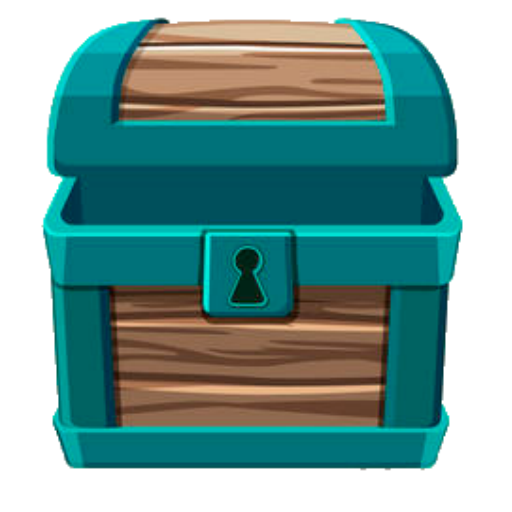
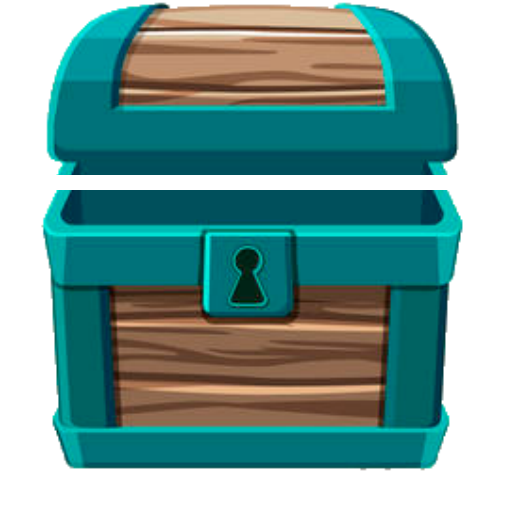
chests now works

Changed region(s): [[0.0625, 0.0, 0.9062, 0.375]]

diff --git a/src/org/supertextbattleroyale/players/Player.java b/src/org/supertextbattleroyale/players/Player.java
@@ -3,18 +3,18 @@ package org.supertextbattleroyale.players;
 import com.google.gson.Gson;
 import com.google.gson.JsonElement;
 import com.google.gson.JsonObject;
-import org.javatuples.Pair;
 import org.javatuples.Triplet;
 import org.supertextbattleroyale.exceptions.JsonLoadFailException;
 import org.supertextbattleroyale.game.GameLauncher;
 import org.supertextbattleroyale.interfaces.Drawable;
 import org.supertextbattleroyale.items.Armor;
+import org.supertextbattleroyale.items.Chest;
 import org.supertextbattleroyale.items.Potion;
 import org.supertextbattleroyale.items.Weapon;
 import org.supertextbattleroyale.maps.Filters;
 import org.supertextbattleroyale.maps.GameMap;
 import org.supertextbattleroyale.maps.MapUtils;
-import org.supertextbattleroyale.maps.tiles.Chest;
+import org.supertextbattleroyale.maps.tiles.ChestTile;
 import org.supertextbattleroyale.maps.tiles.Door;
 import org.supertextbattleroyale.maps.tiles.base.Tile;
 import org.supertextbattleroyale.players.statuses.Recon;
@@ -22,6 +22,7 @@ import org.supertextbattleroyale.players.statuses.Status;
 import org.supertextbattleroyale.utils.*;
 
 import javax.imageio.ImageIO;
+import javax.swing.text.html.Option;
 import java.awt.*;
 import java.awt.image.BufferedImage;
 import java.io.File;
@@ -30,7 +31,6 @@ import java.io.IOException;
 import java.lang.reflect.Field;
 import java.util.List;
 import java.util.*;
-import java.util.concurrent.TimeUnit;
 import java.util.stream.Collectors;
 
 public class Player implements Drawable {
@@ -206,7 +206,7 @@ public class Player implements Drawable {
                 .filter(p -> !this.getKnownPlaces().contains(new Triplet<>(this.getCurrentMap(), this.getCurrentMap().getTileAt(p), p)))
                 .forEach(p -> this.getKnownPlaces().add(new Triplet<>(this.getCurrentMap(), this.getCurrentMap().getTileAt(p), p)));
 
-        MapUtils.getAllTilesFromType(this.getCurrentMap(), Chest.class).stream()
+        MapUtils.getAllTilesFromType(this.getCurrentMap(), ChestTile.class).stream()
                 .filter(this::canSeeTile)
                 .filter(p -> !this.getKnownPlaces().contains(new Triplet<>(this.getCurrentMap(), this.getCurrentMap().getTileAt(p), p)))
                 .forEach(p -> this.getKnownPlaces().add(new Triplet<>(this.getCurrentMap(), this.getCurrentMap().getTileAt(p), p)));
@@ -264,7 +264,12 @@ public class Player implements Drawable {
     private Optional<Point> getBestChest() {
         List<Point> chests = this.getKnownPlaces().stream()
                 .filter(tri -> tri.getValue0().equals(this.currentMap))
-                .filter(tri -> tri.getValue1() instanceof Chest)
+                .filter(tri -> tri.getValue1() instanceof ChestTile)
+                .filter(tri -> {
+                    ChestTile ct = ((ChestTile) tri.getValue1());
+                    Optional<Chest> chest = ct.getChest(getCurrentMap(), tri.getValue2());
+                    return chest.isPresent() && !chest.get().isEmpty();
+                })
                 .map(Triplet::getValue2)
                 .collect(Collectors.toList());
 

diff --git a/src/org/supertextbattleroyale/maps/GameMap.java b/src/org/supertextbattleroyale/maps/GameMap.java
@@ -6,6 +6,7 @@ import org.supertextbattleroyale.exceptions.MapLoadException;
 import org.supertextbattleroyale.game.GameLauncher;
 import org.supertextbattleroyale.interfaces.Drawable;
 import org.supertextbattleroyale.interfaces.TileFilter;
+import org.supertextbattleroyale.items.Chest;
 import org.supertextbattleroyale.maps.tiles.*;
 import org.supertextbattleroyale.maps.tiles.base.Tile;
 import org.supertextbattleroyale.players.Player;
@@ -15,13 +16,11 @@ import javax.imageio.ImageIO;
 import javax.swing.*;
 import java.awt.*;
 import java.awt.image.BufferedImage;
-import java.beans.XMLDecoder;
 import java.io.File;
 import java.io.FileInputStream;
 import java.io.IOException;
 import java.util.*;
 import java.util.List;
-import java.util.concurrent.CopyOnWriteArrayList;
 import java.util.stream.Collectors;
 
 public class GameMap implements Drawable {
@@ -39,8 +38,11 @@ public class GameMap implements Drawable {
 
     private final int PATHFIND_DISTANCE_INCREMENT = 10;
 
+    private List<Chest> chests;
+
     public GameMap(File directory) throws MapLoadException {
         this.settingsFolder = directory;
+        this.chests = new ArrayList<>();
 
         this.setupMap(new File(directory, "map.data"));
         this.setupTexture(settingsFolder);
@@ -79,9 +81,11 @@ public class GameMap implements Drawable {
                 this.matrixMap[w][h] = t.get();
             }
         }
+
+        MapUtils.getAllTilesFromType(this, ChestTile.class).stream()
+                .map(Chest::new)
+                .forEach(chests::add);
     }
-
-
 
     private int getTileEdge(int panelWidth, int panelHeight) {
         int w1 = Math.floorDiv(panelWidth, this.matrixMap.length);
@@ -150,15 +154,7 @@ public class GameMap implements Drawable {
                 this.CELL_HEIGHT * this.matrixMap[0].length,
                 null);
 
-        g.translate(X_DIST, Y_DIST);
-        MapUtils.getAllTilesFromType(this, Chest.class)
-                .forEach(p -> {
-                    Chest c = (Chest) this.getTileAt(p);
-                    g.translate(p.x * CELL_WIDTH, p.y * CELL_HEIGHT);
-                    c.draw(g);
-                    g.translate(-p.x * CELL_WIDTH, -p.y * CELL_HEIGHT);
-                });
-        g.translate(-X_DIST, -Y_DIST);
+        chests.forEach(c -> c.draw(g));
 
 //        this.printGrid(g); //debug
     }
@@ -235,6 +231,10 @@ public class GameMap implements Drawable {
                 .collect(Collectors.toList());
     }
 
+    public List<Chest> getChestsOnMap() {
+        return this.chests;
+    }
+
     /**
      * Where all types of tiles are created
      *
@@ -243,7 +243,7 @@ public class GameMap implements Drawable {
      */
     public static void loadTileTypes(File config) throws JsonLoadFailException {
         tileTypes = new ArrayList<>();
-        tileTypes.add(new Chest(config));
+        tileTypes.add(new ChestTile(config));
         tileTypes.add(new Door(config));
         tileTypes.add(new Ground(config));
         tileTypes.add(new LowObstacle(config));

diff --git a/src/org/supertextbattleroyale/items/Chest.java b/src/org/supertextbattleroyale/items/Chest.java
@@ -1,6 +1,5 @@
-package org.supertextbattleroyale.maps.tiles;
+package org.supertextbattleroyale.items;
 
-import org.supertextbattleroyale.exceptions.JsonLoadFailException;
 import org.supertextbattleroyale.game.GameLauncher;
 import org.supertextbattleroyale.interfaces.Drawable;
 import org.supertextbattleroyale.items.base.Collectible;
@@ -9,26 +8,29 @@ import org.supertextbattleroyale.players.Player;
 
 import java.awt.*;
 import java.awt.image.BufferedImage;
-import java.io.File;
 import java.util.ArrayList;
 import java.util.Arrays;
 import java.util.List;
 
-public class Chest extends LowObstacle implements Drawable {
+public class Chest implements Drawable {
     private boolean empty;
     private List<Collectible> items;
     private List<BufferedImage> images;
     private boolean open, animate;
 
-    //TODO: change tile system since modifying this makes all chest open
+    private int x, y;
 
-    public Chest(File config) throws JsonLoadFailException {
-        super(config);
+    public Chest(int x, int y) {
+        this.x = x;
+        this.y = y;
 
         this.items = new ArrayList<>();
         this.images = new ArrayList<>();
         this.empty = false;
+    }
 
+    public Chest(Point p) {
+        this(p.x, p.y);
     }
 
     public void addItems(Collectible... items) {
@@ -66,9 +68,25 @@ public class Chest extends LowObstacle implements Drawable {
         g.setColor(this.open ? Color.red : Color.yellow);
         GameMap map = GameLauncher.getGameInstance().getCurrentMap();
 
+        g.translate(map.X_DIST + map.CELL_WIDTH * x, map.Y_DIST + map.CELL_HEIGHT * y);
+
         g.fillRect((int) (map.CELL_WIDTH * 0.1f),
                 (int) (map.CELL_HEIGHT * 0.1f),
-                (int) (map.CELL_WIDTH* 0.8f),
+                (int) (map.CELL_WIDTH * 0.8f),
                 (int) (map.CELL_HEIGHT * 0.8f));
+
+        g.translate(-map.X_DIST - map.CELL_WIDTH * x, -map.Y_DIST - map.CELL_HEIGHT * y);
+    }
+
+    public int getX() {
+        return x;
+    }
+
+    public int getY() {
+        return y;
+    }
+
+    public Point getLocation() {
+        return new Point(x, y);
     }
 }

diff --git a/src/org/supertextbattleroyale/players/statuses/Movement.java b/src/org/supertextbattleroyale/players/statuses/Movement.java
@@ -1,8 +1,9 @@
 package org.supertextbattleroyale.players.statuses;
 
 import org.javatuples.Triplet;
+import org.supertextbattleroyale.items.Chest;
 import org.supertextbattleroyale.maps.GameMap;
-import org.supertextbattleroyale.maps.tiles.Chest;
+import org.supertextbattleroyale.maps.tiles.ChestTile;
 import org.supertextbattleroyale.maps.tiles.Door;
 import org.supertextbattleroyale.maps.tiles.base.Tile;
 import org.supertextbattleroyale.players.Player;
@@ -11,6 +12,7 @@ import org.supertextbattleroyale.players.StatusAction;
 import java.awt.*;
 import java.util.Collections;
 import java.util.List;
+import java.util.Optional;
 
 public class Movement extends Status {
 
@@ -63,14 +65,21 @@ public class Movement extends Status {
                 }
 
                 //CASE DESTINATION CHEST
-                if (tile instanceof Chest) {
+                if (tile instanceof ChestTile) {
                     getAttention();
 
                     return () -> {
-                        ((Chest) tile).open();
-                        ((Chest) tile).collectItems(player);
-                        player.decrementActionsLeft(1);
-                        return new Movement(player, player.getNextDestination());
+                        Optional<Chest> chest = ((ChestTile) tile).getChest(player.getCurrentMap(), next);
+                        if(chest.isEmpty()) {
+                            System.out.println("this should not be happening");
+                            return new Movement(player, player.getNextDestination());
+                        } else {
+                            chest.get().open();
+                            chest.get().loot();
+                            chest.get().collectItems(player);
+                            player.decrementActionsLeft(1);
+                            return new Movement(player, player.getNextDestination());
+                        }
                     };
                 }
 

diff --git a/src/org/supertextbattleroyale/maps/tiles/ChestTile.java b/src/org/supertextbattleroyale/maps/tiles/ChestTile.java
@@ -1,0 +1,34 @@
+package org.supertextbattleroyale.maps.tiles;
+
+import org.supertextbattleroyale.exceptions.JsonLoadFailException;
+import org.supertextbattleroyale.game.GameLauncher;
+import org.supertextbattleroyale.interfaces.Drawable;
+import org.supertextbattleroyale.items.Chest;
+import org.supertextbattleroyale.items.base.Collectible;
+import org.supertextbattleroyale.maps.GameMap;
+import org.supertextbattleroyale.players.Player;
+
+import java.awt.*;
+import java.awt.image.BufferedImage;
+import java.io.File;
+import java.util.ArrayList;
+import java.util.Arrays;
+import java.util.List;
+import java.util.Optional;
+import java.util.stream.Collectors;
+
+public class ChestTile extends LowObstacle {
+
+    //TODO: change tile system since modifying this makes all chest open
+
+    public ChestTile(File config) throws JsonLoadFailException {
+        super(config);
+    }
+
+    public Optional<Chest> getChest(GameMap map, Point p) {
+        return map.getChestsOnMap().stream()
+                .filter(chest -> chest.getLocation().equals(p))
+                .findAny();
+    }
+
+}
